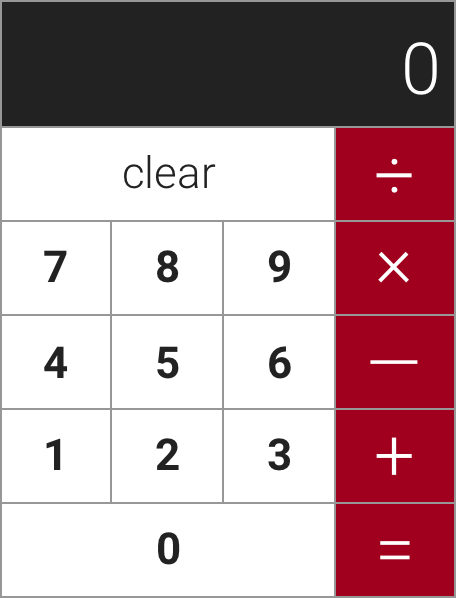
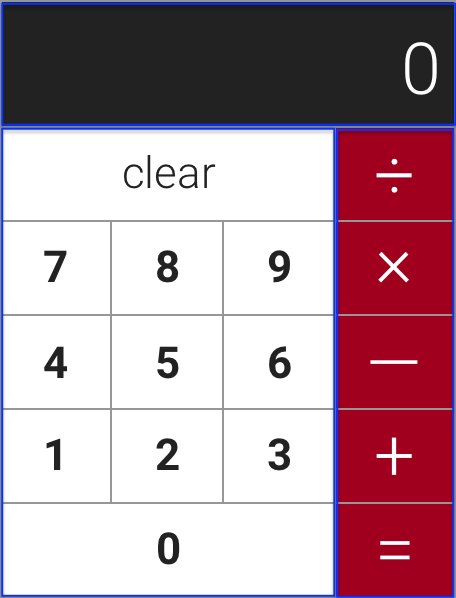
Completed the MVP of the calculator

Changed region(s): [[0.0, 0.0, 1.0, 1.0]]

diff --git a/Day-II-Calculator/calculator/src/components/ButtonComponents/NumbersContainer.js b/Day-II-Calculator/calculator/src/components/ButtonComponents/NumbersContainer.js
@@ -1,0 +1,60 @@
+import React from 'react';
+import './Button.css';
+import NumberButton from './NumberButton';
+
+const numbersArr = [
+    {
+        symbol: 'clear',
+        class: 'clear-btn' 
+    },
+    {
+        symbol: '7',
+        class: 'number-btn' 
+    },
+    {
+        symbol: '8',
+        class: 'number-btn' 
+    },
+    {
+        symbol: '9',
+        class: 'number-btn' 
+    },
+    {
+        symbol: '4',
+        class: 'number-btn' 
+    },
+    {
+        symbol: '5',
+        class: 'number-btn' 
+    },
+    {
+        symbol: '6',
+        class: 'number-btn' 
+    },
+    {
+        symbol: '1',
+        class: 'number-btn' 
+    },
+    {
+        symbol: '2',
+        class: 'number-btn' 
+    },
+    {
+        symbol: '3',
+        class: 'number-btn' 
+    },
+    {
+        symbol: '0',
+        class: 'wide-btn' 
+    }
+]
+
+function NumbersContainer(props) {
+    return (
+        <div className='numbers-container'>
+            {numbersArr.map(button => <NumberButton buttonProp={button} />)}
+        </div>
+    )
+}
+
+export default NumbersContainer;

diff --git a/Day-II-Calculator/calculator/src/App.js b/Day-II-Calculator/calculator/src/App.js
@@ -1,21 +1,15 @@
 import React from 'react';
 import './App.css';
+import DisplayContainer from './components/DisplayComponents/DisplayContainer';
+import NumbersContainer from './components/ButtonComponents/NumbersContainer';
+import ActionsContainer from './components/ButtonComponents/ActionsContainer';
 
 const App = () => {
   return (
-    <div>
-      <h3>Welcome to React Calculator</h3>
-      <p>
-        We have given you a starter project. You'll want to build out your
-        components in their respective files, remove this code and replace it
-        with the proper components.
-      </p>
-      <p>
-        <strong>
-          Don't forget to `default export` your components and import them here
-          inside of this file in order to make them work.
-        </strong>
-      </p>
+    <div className='container'>
+      <DisplayContainer />
+      <NumbersContainer />
+      <ActionsContainer />
     </div>
   );
 };

diff --git a/Day-II-Calculator/calculator/src/components/ButtonComponents/Button.css b/Day-II-Calculator/calculator/src/components/ButtonComponents/Button.css
@@ -1,0 +1,52 @@
+.numbers-container {
+    width: 70%;
+    display: flex;
+    flex-wrap: wrap;
+    margin: 0;
+}
+
+h1 {
+    margin: 0;
+    font-size: 42px;
+}
+
+.clear-btn, .wide-btn {
+    width: 100%;
+    display: flex;
+    justify-content: center;
+    align-items: center;
+    border: 1px solid darkgray;
+}
+
+.clear-btn h1 {
+    font-weight: lighter;
+}
+
+.number-btn {
+    width: 33.33333333333333%;
+    display: flex;
+    justify-content: center;
+    align-items: center;
+    border: 1px solid darkgray;
+}
+
+.actions-container {
+    width: 30%;
+    display: flex;
+    flex-wrap: wrap;
+}
+
+.actions-container .operators {
+    width: 100%;
+    display: flex;
+    justify-content: center;
+    align-items: center;
+    height: 20%;
+    margin: 0;
+    font-weight: lighter;
+    font-size: 60px;
+    padding-bottom: 10px;
+    background: firebrick;
+    color: white;
+    border: 1px solid darkgray;
+}

diff --git a/Day-II-Calculator/calculator/src/components/ButtonComponents/ActionsContainer.js b/Day-II-Calculator/calculator/src/components/ButtonComponents/ActionsContainer.js
@@ -1,0 +1,22 @@
+import React from 'react';
+import './Button.css';
+import ActionButton from './ActionButton';
+
+const actionsArr = [
+    <span>&divide;</span>,
+    <span>&times;</span>,
+    <span>&minus;</span>,
+    <span>&#43;</span>,
+    <span>&#61;</span>
+]
+
+function ActionsContainer(props) {
+    return (
+        <div className='actions-container'>
+        {/* <h1>&divide;</h1> */}
+            {actionsArr.map(action => <ActionButton operatorProp={action} />)}
+        </div>
+    )
+}
+
+export default ActionsContainer;

diff --git a/Day-II-Calculator/calculator/src/components/DisplayComponents/Display.css b/Day-II-Calculator/calculator/src/components/DisplayComponents/Display.css
@@ -1,0 +1,28 @@
+* {
+    box-sizing: border-box;
+}
+
+.container {
+    max-width: 400px;
+    margin: 0 auto;
+    display: flex;
+    flex-wrap: wrap;
+    border: 1px solid darkgray;
+    font-family: sans-serif;
+}
+
+.display {
+    width: 100%;
+    display: flex;
+    justify-content: flex-end;
+    color: white;
+    background: black;
+    border: 1px solid darkgray;
+}
+
+.display h1 {
+    font-weight: lighter;
+    font-size: 60px;
+    padding: 0 20px;
+    margin: 15px 0;
+}

diff --git a/Day-II-Calculator/calculator/src/components/DisplayComponents/DisplayContainer.js b/Day-II-Calculator/calculator/src/components/DisplayComponents/DisplayContainer.js
@@ -1,0 +1,13 @@
+import React from 'react';
+import './Display.css';
+import CalculatorDisplay from './CalculatorDisplay'
+
+function DisplayContainer(props) {
+    return (
+        <div className='display'>
+            <CalculatorDisplay number='0' />
+        </div>
+    )
+}
+
+export default DisplayContainer;

diff --git a/Day-II-Calculator/calculator/src/components/ButtonComponents/NumberButton.js b/Day-II-Calculator/calculator/src/components/ButtonComponents/NumberButton.js
@@ -1,2 +1,12 @@
 import React from 'react';
 import './Button.css';
+
+function NumberButton(props) {
+    return (
+        <div className={props.buttonProp.class}>
+            <h1>{props.buttonProp.symbol}</h1>
+        </div>
+    )
+}
+
+export default NumberButton;

diff --git a/Day-II-Calculator/calculator/src/components/ButtonComponents/ActionButton.js b/Day-II-Calculator/calculator/src/components/ButtonComponents/ActionButton.js
@@ -1,2 +1,8 @@
 import React from 'react';
 import './Button.css';
+
+function ActionButton(props) {
+    return <h1 className='operators'>{props.operatorProp}</h1>
+}
+
+export default ActionButton;

diff --git a/Day-II-Calculator/calculator/src/components/DisplayComponents/CalculatorDisplay.js b/Day-II-Calculator/calculator/src/components/DisplayComponents/CalculatorDisplay.js
@@ -1,2 +1,8 @@
 import React from 'react';
 import './Display.css';
+
+function CalculatorDisplay(props) {
+    return <h1>{props.number}</h1>
+}
+
+export default CalculatorDisplay;
